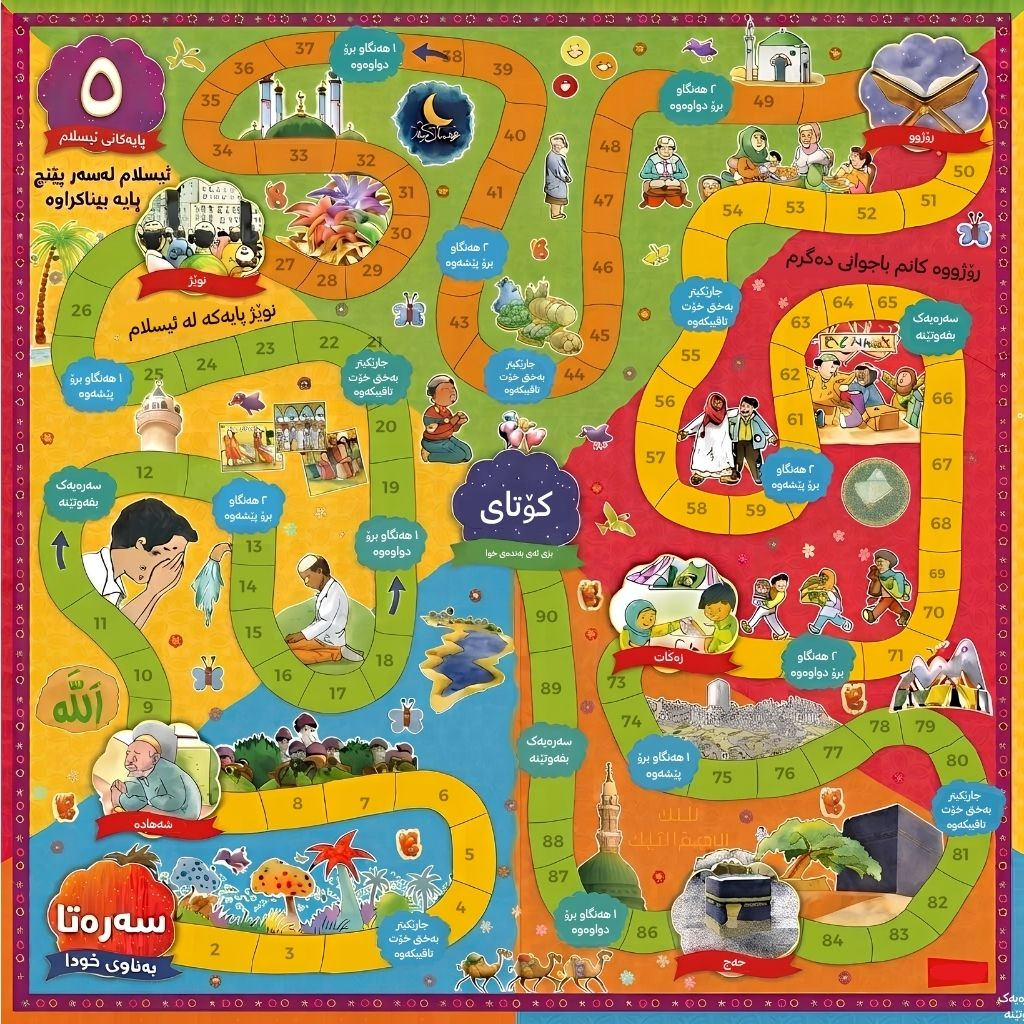
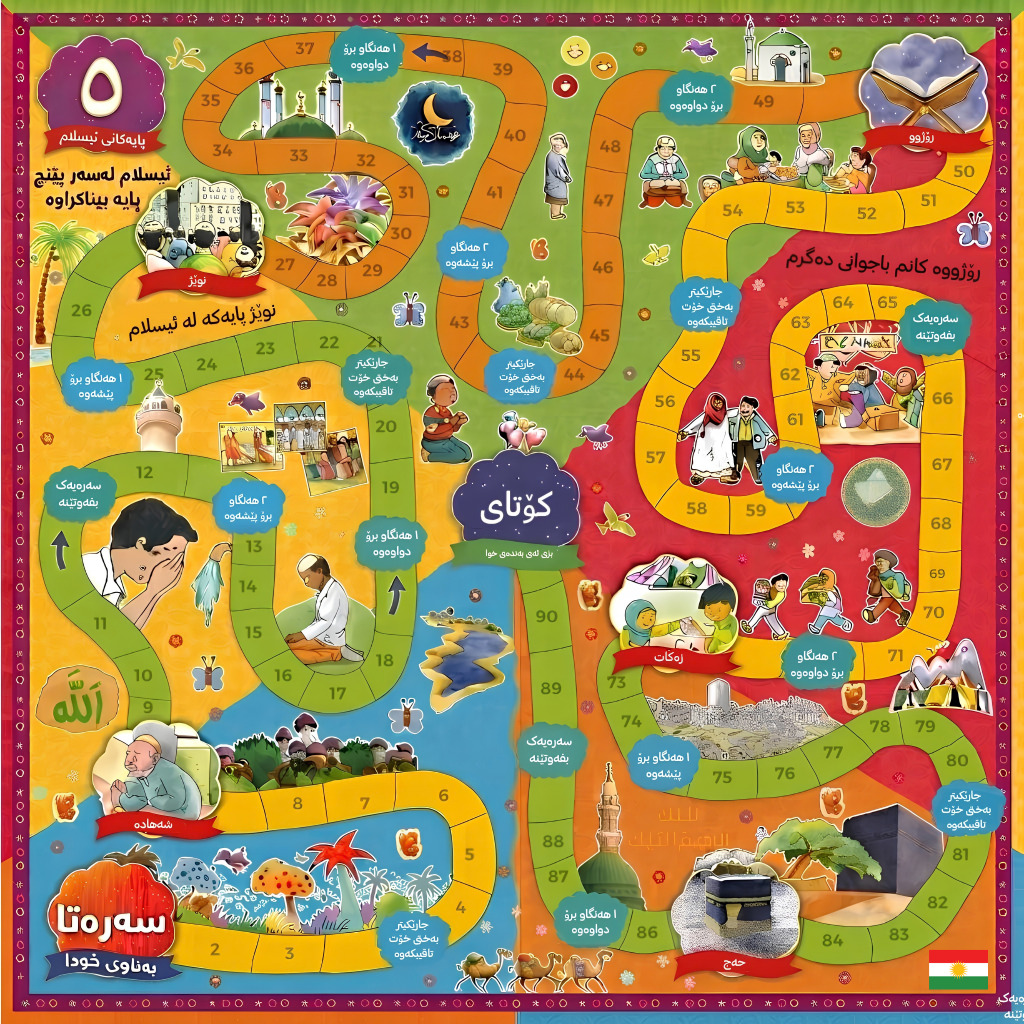
refactor: update UI text labels to "مێنیو"
Update menu labels and replace the board asset with a new version.

diff --git a/src/App.tsx b/src/App.tsx
@@ -1572,10 +1572,10 @@ export default function App() {
                     setShowNavDrawer(true);
                   }}
                   className="flex items-center gap-1.5 sm:gap-2 px-3 sm:px-4 py-2 sm:py-2.5 bg-[#fdfcf9] hover:bg-[#f3ede1] dark:bg-stone-800 dark:hover:bg-stone-700 active:scale-95 text-stone-800 dark:text-stone-100 rounded-xl text-xs sm:text-sm font-black shadow-sm border border-stone-200/90 dark:border-stone-700/80 transition-all cursor-pointer group"
-                  title="پێڕستی سەرەکی"
+                  title="مێنیو"
                 >
                   <Menu className="w-4 h-4 sm:w-5 sm:h-5 text-amber-600 dark:text-amber-400 group-hover:rotate-180 transition-transform duration-300" />
-                  <span>پێڕست</span>
+                  <span>مێنیو</span>
                 </button>
               </div>
             </nav>

diff --git a/src/components/HeaderNavDrawer.tsx b/src/components/HeaderNavDrawer.tsx
@@ -157,7 +157,7 @@ export const HeaderNavDrawer: React.FC<HeaderNavDrawerProps> = ({
                   <Sparkles className="w-6 h-6" />
                 </div>
                 <div>
-                  <h3 className="font-black text-stone-900 dark:text-white text-lg">پێڕستی سەرەکی</h3>
+                  <h3 className="font-black text-stone-900 dark:text-white text-lg">مێنیوی سەرەکی</h3>
                   <p className="text-xs text-stone-500 dark:text-stone-400 font-bold">یاری خێزانی ٥ پایەکەی ئیسلام</p>
                 </div>
               </div>
